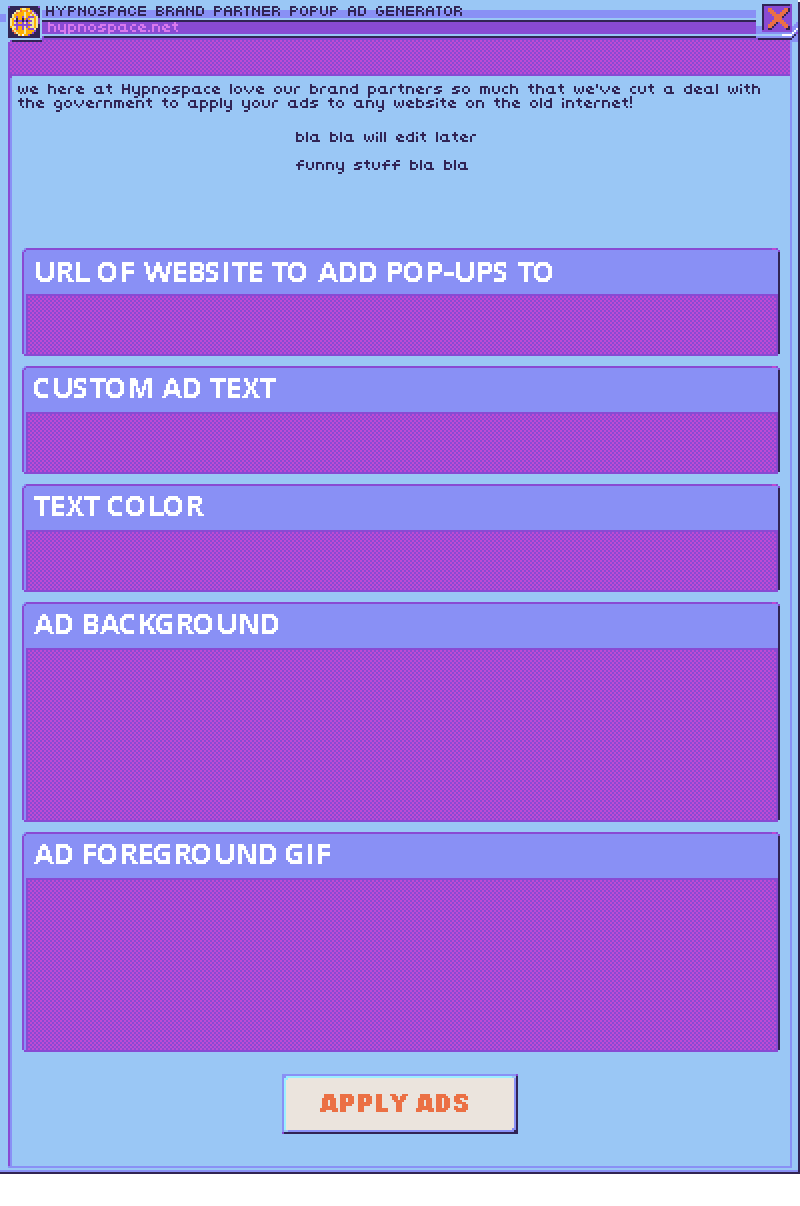
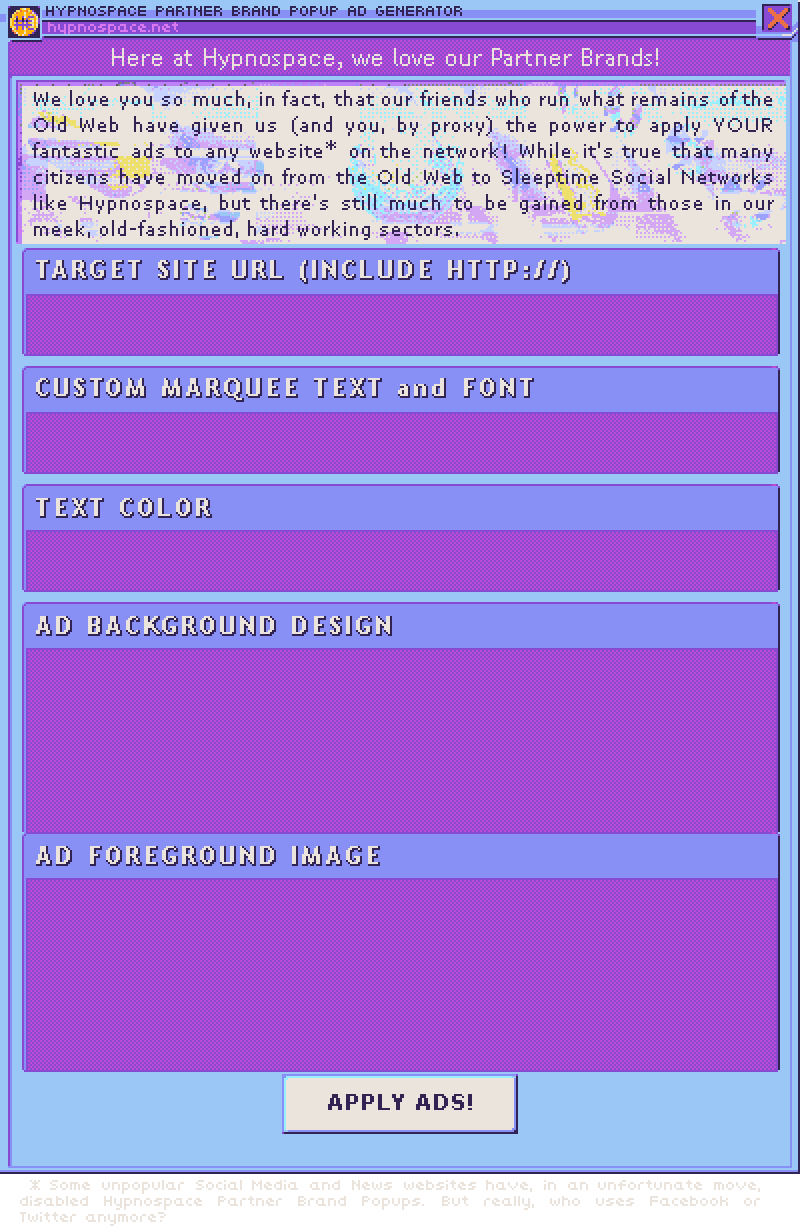
last minute touches

diff --git a/hypnospace/main.js b/hypnospace/main.js
@@ -33,14 +33,16 @@ document.addEventListener('DOMContentLoaded', function(){
           if (URLParams.hasOwnProperty('text')) {
               return unescape(URLParams.text);
           } else {
+              //console.log("text not passed");
               return false;
           }
       }()
 
       var userImg = function(){
           if (URLParams.hasOwnProperty('img')) {
-              return parseInt(URLParams.img);
+              return URLParams.img;
           } else {
+              //console.log("img not passed");
               return false;
           }
       }()
@@ -49,6 +51,7 @@ document.addEventListener('DOMContentLoaded', function(){
           if (URLParams.hasOwnProperty('url')) {
               return URLParams.url;
           } else {
+              //console.log("url not passed");
               return false;
           }
       }()
@@ -57,6 +60,7 @@ document.addEventListener('DOMContentLoaded', function(){
           if (URLParams.hasOwnProperty('bgimg')) {
               return URLParams.bgimg;
           } else {
+              //console.log("bgimg not passed");
               return false;
           }
       }()
@@ -65,6 +69,7 @@ document.addEventListener('DOMContentLoaded', function(){
           if (URLParams.hasOwnProperty('font')) {
               return URLParams.font;
           } else {
+              //console.log("font not passed");
               return false;
           }
       }()
@@ -73,6 +78,7 @@ document.addEventListener('DOMContentLoaded', function(){
           if (URLParams.hasOwnProperty('fontColor')) {
               return URLParams.fontColor;
           } else {
+              //console.log("fontColor not passed");
               return false;
           }
       }()
@@ -205,7 +211,7 @@ document.addEventListener('DOMContentLoaded', function(){
           var userText = document.getElementById("userText").value;
           var userURL = document.getElementById("userURL").value;
 
-          var newUrl = "http://daynejones.com/hypnospace/" +
+          var newUrl = "/" +
                        "?url=" + userURL + 
                        "&text=" + escape(userText) + 
                        "&bgimg=" + selectedBgImageNum + 
@@ -261,13 +267,26 @@ document.addEventListener('DOMContentLoaded', function(){
           submit.addEventListener('click', formSubmit, false);
       }
 
+      var hideVideo = function(){
+          var video = document.getElementById("theVideo");
+          video.style.display = "none";
+      }
+
+      var clearBackground = function(){
+          document.body.style.background = "none";
+      }
+
       var init = function(){
           if (allQueryStringsPassed){
+              //console.log("all query strings passed");
               toggleFormDisplay();
+              hideVideo();
+              clearBackground();
               setupIframe();
               toggleIframeDisplay();
               startCreatingWindows();
           } else {
+              //console.log("not all query strings passed");
               bindFormImages();
               bindFormSubmit();
           }

diff --git a/hypnospace/index.html b/hypnospace/index.html
@@ -18,7 +18,8 @@
     </script>
   </head>
   <body>
-    <iframe sandbox="allow-same-origin allow-scripts allow-popups allow-forms" id="theFrame"></iframe>
+    <iframe id="theVideo" class="the-video" width="640" height="360" src="https://www.kickstarter.com/projects/jaytholen/hypnospace-outlaw/widget/video.html" frameborder="0" scrolling="no"> </iframe>
+    <iframe sandbox="allow-same-origin allow-scripts allow-popups allow-forms" class="the-frame" id="theFrame"></iframe>
     <form id="theForm" class="the-form">
       <div class="fieldsets">
         <fieldset>

diff --git a/hypnospace/style/main.css b/hypnospace/style/main.css
@@ -2,6 +2,10 @@ body {
     background-image: url('../img/site-bg.png');
 }
 
+body.no-bg {
+    background-image: none;
+}
+
 @font-face {
     font-family: 'somybmp01_7regular';
     src: url('font.woff2') format('woff2'),
@@ -11,7 +15,7 @@ body {
 
 }
 
-iframe {
+iframe.the-frame {
     position: fixed;
     border: none;
     top: 0; right: 0;
@@ -20,6 +24,11 @@ iframe {
     height: 100%;
     z-index: 1;
     display: none;
+}
+
+iframe.the-video {
+  display: block;
+  margin: 30px auto;
 }
 
 .window {
